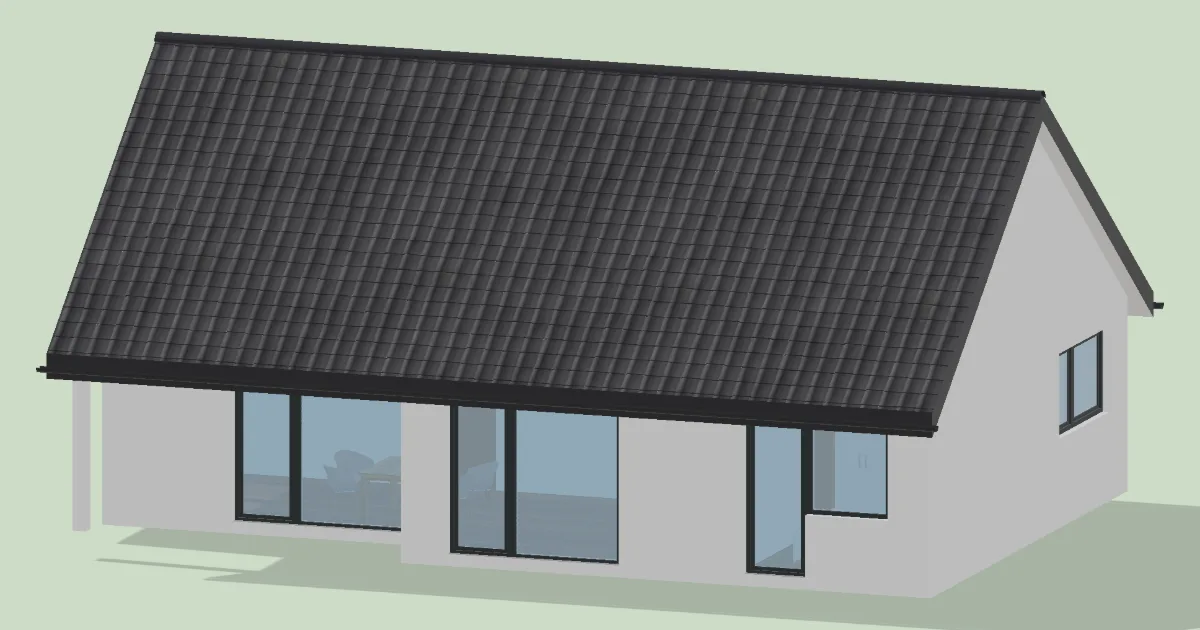
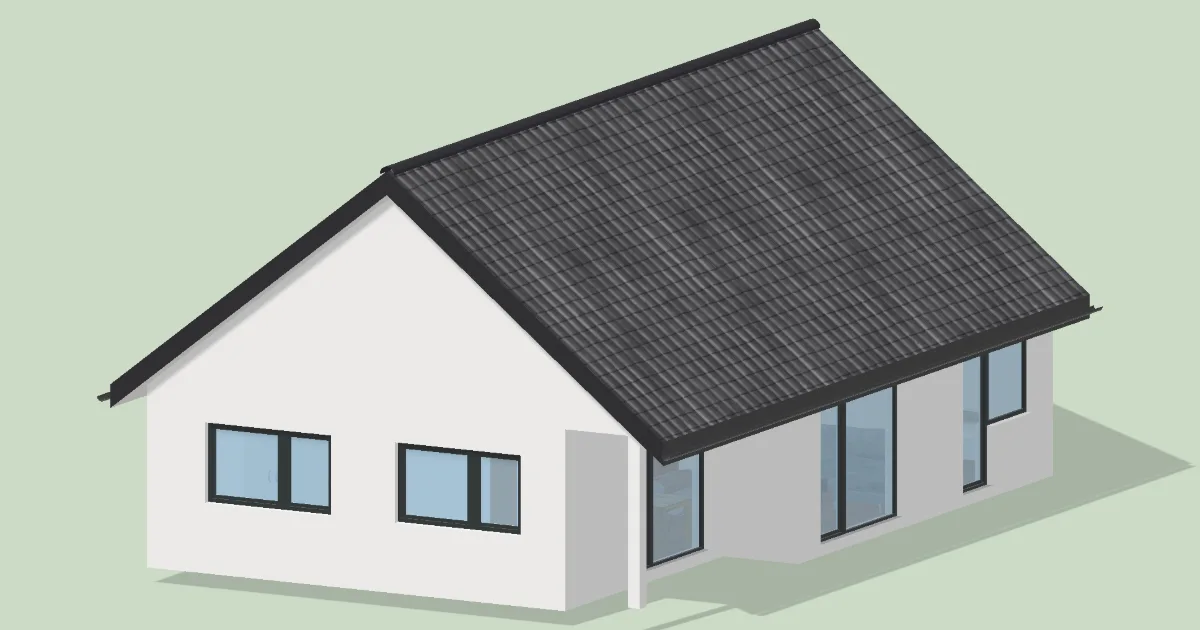
Články: opravy po kontrole nesmyslů
Vzorový dům v článku o půdorysu s obvodovými zdmi 45 cm (článek před 30 cm varuje) a bez sloupu,
který bez střechy nedává smysl. Úvodní obrázek fasády na osluněný štít, bílá už nevypadá šedě.
Tabulka schodů: 3,10 m s 18 výškami místo 3,20 m s 19 (víc než povoluje text). Drobnosti:
chodba s botníkem 150 cm, fólie snese menší sklon než plech, okna bez dekoru, popisky.

diff --git a/resources/clanky/cs/barva-fasady.md b/resources/clanky/cs/barva-fasady.md
@@ -20,14 +20,14 @@ souvisejici: jak-nakreslit-pudorys-domu, typy-strech
 - Krajský soud v Praze, 48 A 25/2016 (Veltrusy): ochranné pásmo zámku, povolení předepsalo pálenou krytinu, nařízené odstranění černé betonové krytiny potvrzeno | https://vyhledavac.nssoud.cz/DokumentOriginal/Index/452368
 - Zákon 20/1987 Sb., § 14 odst. 2: závazné stanovisko obce s rozšířenou působností v památkové zóně, rezervaci a ochranném pásmu, i k udržovacím pracím | https://www.zakonyprolidi.cz/cs/1987-20
 ---
-::obrazek /img/clanky/barva-fasady/barva-fasady-uvod.webp | Bílý přízemní dům s černou taškovou střechou a antracitovými okny, pohled ze zahrady na velká okna obývacího pokoje. | Světlá fasáda s tmavou střechou a okny: kontrast, který sedí skoro vždy, editor TupTuDu | 1200 | 630
+::obrazek /img/clanky/barva-fasady/barva-fasady-uvod.webp | Bílý přízemní dům s antracitovou taškovou střechou a antracitovými okny, pohled na osluněný štít, vpravo zahradní strana s velkými okny. | Světlá fasáda s tmavou střechou a okny: kontrast, který sedí skoro vždy, editor TupTuDu | 1200 | 630
 
 ## Nejdřív střecha a okna
 
 Krytina a okna vydrží desítky let, fasáda se přetírá častěji. Proto se volí k nim.
 
 - **K červené pálené střeše** sedí klidné teplé tóny: krémová, písková, okrová nebo teplá bílá.
-- **K černé nebo antracitové střeše** se hodí skoro cokoli, nejčastěji bílá a světle šedá. Snese i výraznější barvu, kontrast je tu výhoda. U zatepleného domu si ale ověř HBW, sytý odstín bývá pod hranicí (níž).
+- **K černé nebo antracitové střeše** se hodí skoro cokoli, nejčastěji bílá a světle šedá. Snese i výraznější barvu, kontrast je tu výhoda. U zatepleného domu si ale ověř světelnou odrazivost HBW, sytý odstín bývá pod hranicí.
 - **Bílá okna** snesou jakoukoli fasádu. **Antracitová** snesou i výraznější barvu, nejvíc ale vyniknou na světlé. **Hnědá okna** v dekoru dřeva ladí s krémovou, pískovou, okrovou i bílou.
 
 Stačí tři barvy: fasáda, střecha a okna. Vchodové dveře a vrata dej do barvy oken, nebo ať jsou jediným výraznějším prvkem. Jestli střechu teprve vybíráš, porovnej [typy střech](clanek:typy-strech) na stejném domě.
@@ -54,7 +54,7 @@ Malý čtvereček v obchodě vypadá jinak než celá stěna venku. Odstín měn
 |:---|:---|:---|:---|
 | bílá (RAL 9016) | antracitová (RAL 7016) | antracitová | moderně |
 | krémová (RAL 9001) | cihlově červená | bílá | tradičně |
-| písková | hnědá | hnědá, dekor dřeva | teple |
+| písková | hnědá | hnědá | teple |
 | světle šedá (RAL 7035) | černá | bílá | střídmě |
 
 ::obrazek /img/clanky/barva-fasady/barva-fasady-kombinace.webp | Stejný dům ve čtyřech kombinacích: bílá fasáda s antracitovou střechou a okny, krémová s červenou střechou a bílými okny, písková s hnědou střechou a hnědými okny, světle šedá s černou střechou a bílými okny. | Kombinace z tabulky na stejném domě. Barvy na obrazovce jsou orientační, editor TupTuDu | 1200 | 802

diff --git a/resources/clanky/cs/jak-nakreslit-pudorys-domu.md b/resources/clanky/cs/jak-nakreslit-pudorys-domu.md
@@ -24,7 +24,7 @@ souvisejici: minimalni-rozmery-mistnosti, vypocet-schodiste, typy-strech, barva-
 - ESTAV.cz: Schodiště a jeho základní rozměry (2h + b = 630 mm) | https://www.estav.cz/cz/2581.schodiste-a-jeho-zakladni-rozmery
 - Kalkulačka TupTuDu (článek Výpočet schodiště): 2,90 m mezi podlažími = 17 výšek po 171 mm, nášlap 289 mm, přímé rameno 4,62 m; 3,05 m = 18 výšek, rameno 4,95 m (nášlap aspoň 275 mm podle vyhlášky 146/2024 Sb.) | https://www.tuptudu.com
 ---
-::obrazek /img/clanky/jak-nakreslit-pudorys-domu/pudorys-prizemi.webp | Půdorys přízemí rodinného domu s kótami v centimetrech a s názvy a plochami místností: obývák s kuchyní 33,4 m², pokoj 12,1 m², ložnice 10,6 m², koupelna 8,8 m², pracovna 8,1 m², zádveří 5,8 m², WC 1,8 m². | Přízemí vzorového domu 12,54 × 8,23 m s kótami, místnostmi a plochami, editor TupTuDu | 1200 | 857
+::obrazek /img/clanky/jak-nakreslit-pudorys-domu/pudorys-prizemi.webp | Půdorys přízemí rodinného domu s kótami v centimetrech a s názvy a plochami místností: obývák s kuchyní 32,3 m², pokoj 11,6 m², ložnice 10,1 m², koupelna 8,5 m², pracovna 7,7 m², zádveří 5,6 m², WC 1,8 m². | Přízemí vzorového domu 12,69 × 8,38 m s obvodovými zdmi 45 cm, kótami, místnostmi a plochami, editor TupTuDu | 1200 | 860
 
 ## Než začneš kreslit
 
@@ -53,7 +53,7 @@ Sepiš místnosti s přibližnou plochou a rozděl je na denní a noční část
 | Dveře do koupelny a na WC | 70 až 80 cm |
 | Vchodové dveře | od 90 cm |
 | Volné místo kolem postele | aspoň 60 cm |
-| Přímé schody do patra | asi 1 × 4,5 až 5 m |
+| Přímé schody do patra | asi 1 × 4 až 5 m |
 
 :::pozor Častá chyba: tenké stěny
 Když u zděného domu při stejném vnějším rozměru nakreslíš obvodovou stěnu 30 cm místo 50 cm, každá místnost u fasády vyjde o 20 cm hlubší, než bude. Napříč domem pak chybí 40 cm a nábytek, který se na výkrese vešel, se do domu nevejde.

diff --git a/resources/clanky/cs/typy-strech.md b/resources/clanky/cs/typy-strech.md
@@ -42,7 +42,7 @@ Valbová střecha má šikmou plochu i nad kratšími stranami domu. Působí ni
 
 Pultová střecha má jen jednu plochu, která stoupá od okapu k vysoké stěně. Hodí se k modernímu domu, bungalovu, přístavbě nebo garáži. Vysoká stěna bývá často na jihu, aby se do ní vešla velká okna. Střecha pak míří k severu, pro fotovoltaiku se hodí opačné otočení.
 
-Sklon bývá 5 až 25° a řídí se krytinou. Plech a fólie snesou podle výrobce sklon zhruba od 3 do 7°, asfaltový šindel a tašky potřebují víc. Běžné tašky mají bezpečný sklon 22 až 30° a nejmenší sklon zhruba 12 až 20°. Mezi nimi výrobce předepíše těsnější pojistnou hydroizolaci, pod nejmenším sklonem taška použít nejde. Pod obytným podkrovím je pojistná hydroizolace vždy. Při malém sklonu leží sníh déle a všechnu vodu svede jeden žlab, ten musí být dost velký.
+Sklon bývá 5 až 25° a řídí se krytinou. Plech snese podle výrobce sklon zhruba od 3 do 7°, fólie i méně, asfaltový šindel a tašky potřebují víc. Běžné tašky mají bezpečný sklon 22 až 30° a nejmenší sklon zhruba 12 až 20°. Mezi nimi výrobce předepíše těsnější pojistnou hydroizolaci, pod nejmenším sklonem taška použít nejde. Pod obytným podkrovím je pojistná hydroizolace vždy. Při malém sklonu leží sníh déle a všechnu vodu svede jeden žlab, ten musí být dost velký.
 
 ## Sklon střechy a jeho výpočet
 

diff --git a/resources/clanky/cs/minimalni-rozmery-mistnosti.md b/resources/clanky/cs/minimalni-rozmery-mistnosti.md
@@ -29,7 +29,7 @@ souvisejici: jak-nakreslit-pudorys-domu, vypocet-schodiste
 | Ložnice pro dva | předpis 8 m², norma také 8 m² | 3 × 3 m: postel 160 × 200 a dva stolky, skříň ne. 3 × 3,6 až 3,7 m: k tomu skříň a průchod, podle otvírání skříně a polohy dveří. 3 × 4 m: pohodlně |
 | Pokoj pro jedno dítě | předpis 8 m² | 2,6 × 3,1 m: postel 90 × 200, skříň 100 cm, psací stůl 120 cm a volné místo asi 1 × 1,5 m |
 | Obývací pokoj | předpis 8 m², víc nic. Dřívější norma 16 až 24 m² podle velikosti bytu a stolování, šířka 3,3 m | pohovka 220 cm, stolek a stěna s televizí potřebují šířku aspoň 3,3 m |
-| Chodba | předpis pro rodinný dům minimum nemá | 90 cm: projde jeden člověk. 120 cm: minou se dva. 130 až 150 cm: pohodlně i s botníkem |
+| Chodba | předpis pro rodinný dům minimum nemá | 90 cm: projde jeden člověk. 120 cm: minou se dva. 150 cm: minou se i vedle botníku |
 
 **Předpis** je vyhláška o požadavcích na výstavbu a je závazný. **Norma** ČSN 73 4301 je jen doporučení, závazná je, když se na ni odvolá předpis nebo smlouva. Vydání platné od července 2026 už nedoporučuje 12 m² pro ložnici se dvěma lůžky ani nejmenší šířky pokojů. Praha, Brno a Ostrava mají vlastní stavební předpisy a čísla se tam mohou lišit. Sloupec vpravo je náš výpočet z běžného nábytku, ne předpis.
 

diff --git a/resources/clanky/cs/kolik-zeminy-z-vykopu.md b/resources/clanky/cs/kolik-zeminy-z-vykopu.md
@@ -67,7 +67,7 @@ Pro vlastní odhad sečti v kalkulačce nakypřenou ornici navíc a nakypřený 
 
 Kalkulačka počítá rovinu. Na svahu se [základy dělají po stupních](clanek:zaklady-na-svahu) a dole bývají vyšší. O objemu nejvíc rozhoduje, jak vysoko dům osadíš. Editor terén parcely zná, stupně ale nepočítá a pod domem vždy dosype, u vysokého základu je zásyp spíš horní odhad.
 
-::obrazek /img/clanky/kolik-zeminy-z-vykopu/zaklad-svah.webp | 3D pohled na přízemní dům na svahu s okny a vchodem na horní straně, šedý základ je na dolní straně vyšší | Dům na mírně svažité parcele: základ (pro názornost šedě) se na dolní straně protáhne od terénu až pod podlahu, editor TupTuDu | 1200 | 700
+::obrazek /img/clanky/kolik-zeminy-z-vykopu/zaklad-svah.webp | 3D pohled na přízemní dům na svahu s okny na všech stranách a vchodem na horní straně svahu, šedý základ je na dolní straně vyšší | Dům na mírně svažité parcele: základ (pro názornost šedě) se na dolní straně protáhne od terénu až pod podlahu, editor TupTuDu | 1200 | 700
 
 ::obrazek /img/clanky/kolik-zeminy-z-vykopu/vykop-svah.webp | 3D pohled na výkop pod dům zapuštěný do terénu | Výkop pro stejný dům zapuštěný hlouběji do terénu, dům je skrytý: víc se kope, míň se dosype, editor TupTuDu | 1200 | 700
 

diff --git a/resources/clanky/cs/vypocet-schodiste.md b/resources/clanky/cs/vypocet-schodiste.md
@@ -40,7 +40,7 @@ Kalkulačka počítá přímé schody, lomené do L a do U s odpočívadly i se 
 | 2,80 m | 16 | 175 mm | 280 mm | 4,20 m | 32,0° |
 | 2,90 m | 17 | 171 mm | 289 mm | 4,62 m | 30,6° |
 | 3,05 m | 18 | 169 mm | 291 mm | 4,95 m | 30,2° |
-| 3,20 m | 19 | 168 mm | 293 mm | 5,28 m | 29,9° |
+| 3,10 m | 18 | 172 mm | 286 mm | 4,85 m | 31,1° |
 
 Při 3,05 m by 17 výšek dalo nášlap jen 271 mm, proto 18. Počet stupňů je počet výšek.
 
